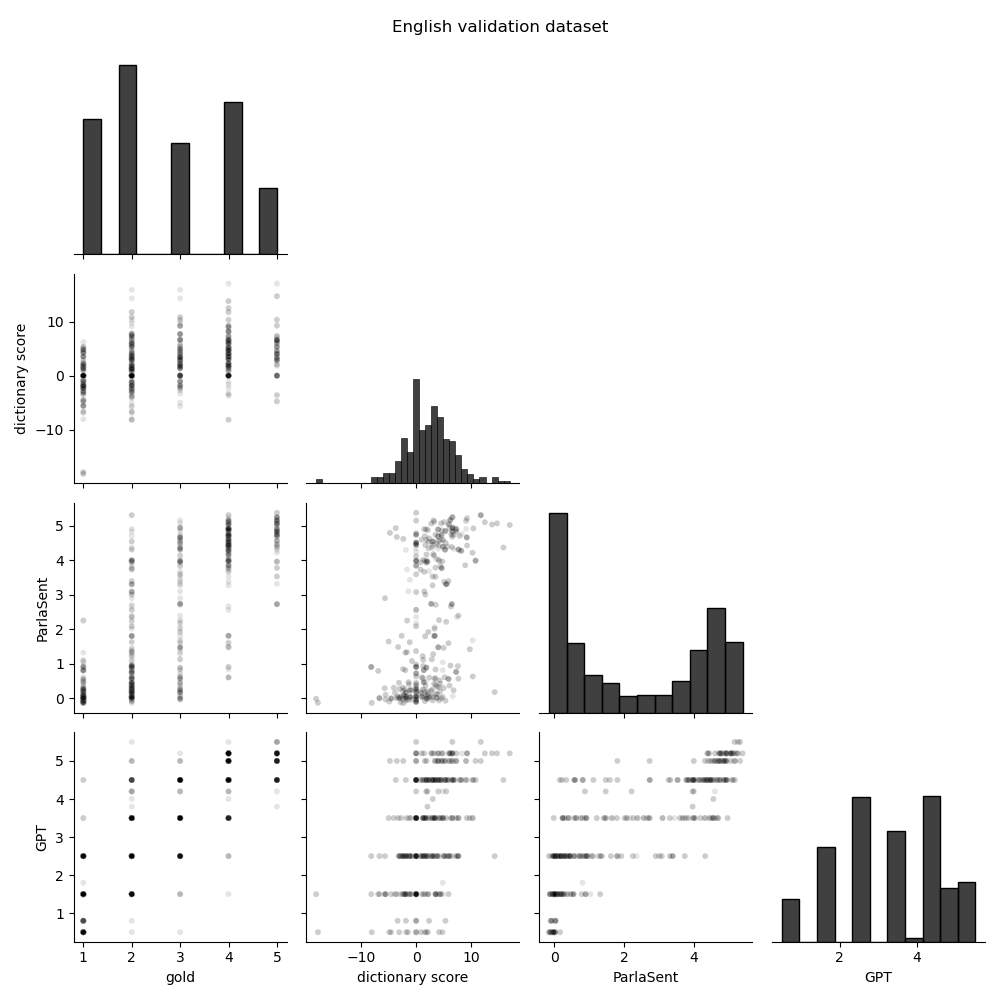
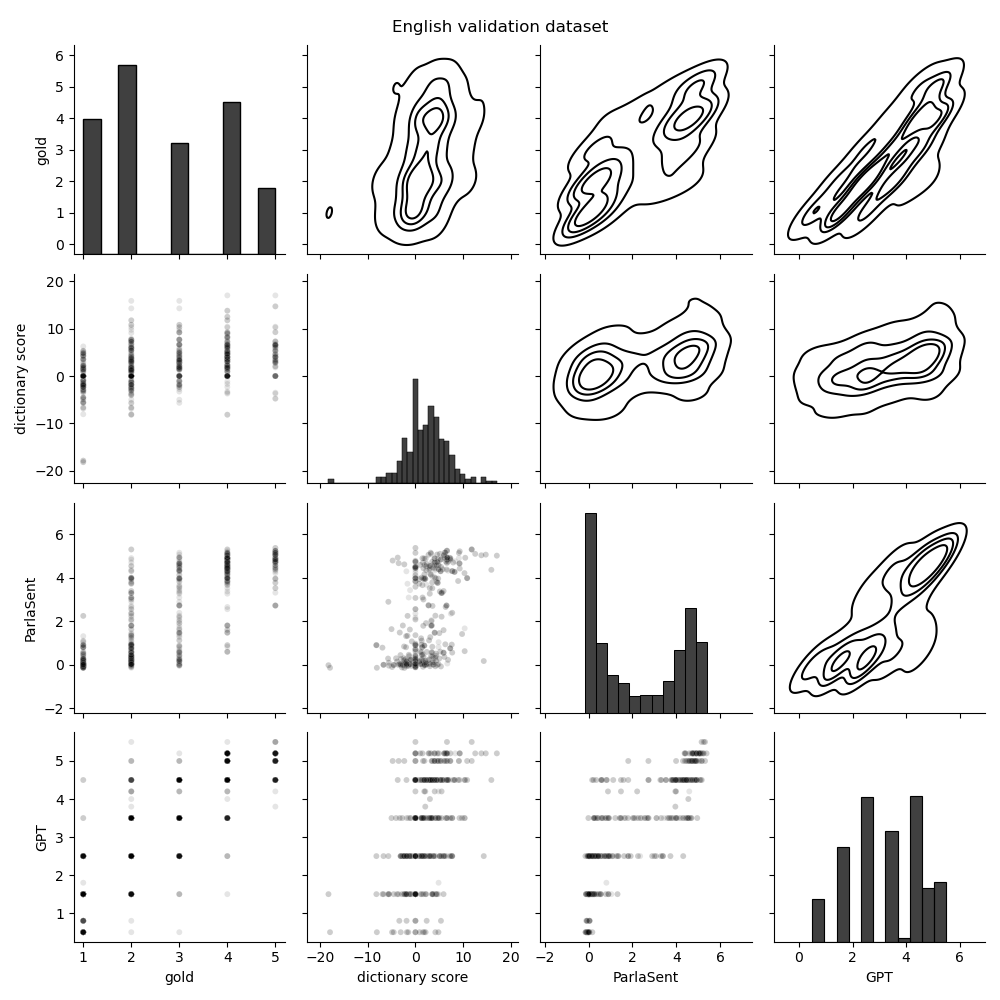
Upload latest stages of code and figures

diff --git a/validation/scripts/analyze_coding.py b/validation/scripts/analyze_coding.py
@@ -93,7 +93,7 @@ def corrfunc(x, y, hue=None, ax=None, **kws):
 df_pandas = df.select(["gold", "dictionary score", "ParlaSent", "GPT"]).to_pandas()
 g = sns.PairGrid(
     df_pandas,
-    corner=True,
+    # corner=True,
 )
 g.map_lower(
     sns.scatterplot,
@@ -102,7 +102,7 @@ g.map_lower(
     color="k",
 )
 # g.map_lower(corrfunc)
-# g.map_upper(sns.kdeplot, color="k", levels=5)
+g.map_upper(sns.kdeplot, color="k", levels=5)
 # g.map_upper(corrfunc)
 g.map_diag(
     sns.histplot,
@@ -111,4 +111,6 @@ g.map_diag(
 plt.gcf().suptitle(dataset)
 plt.tight_layout()
 plt.savefig(outpng)
+2 + 2
+
 2 + 2

diff --git a/validation/scripts/analyze_de.py b/validation/scripts/analyze_de.py
@@ -66,7 +66,7 @@ def corrfunc(x, y, hue=None, ax=None, **kws):
 df_pandas = df.select(["gold", "dictionary score", "ParlaSent", "GPT"]).to_pandas()
 g = sns.PairGrid(
     df_pandas,
-    corner=True,
+    # corner=True,
 )
 g.map_lower(
     sns.scatterplot,
@@ -75,7 +75,7 @@ g.map_lower(
     color="k",
 )
 # g.map_lower(corrfunc)
-# g.map_upper(sns.kdeplot, color="k", levels=5)
+g.map_upper(sns.kdeplot, color="k", levels=5)
 # g.map_upper(corrfunc)
 g.map_diag(
     sns.histplot,
